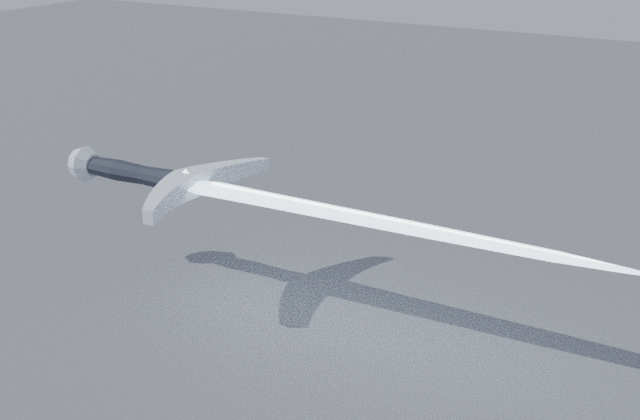
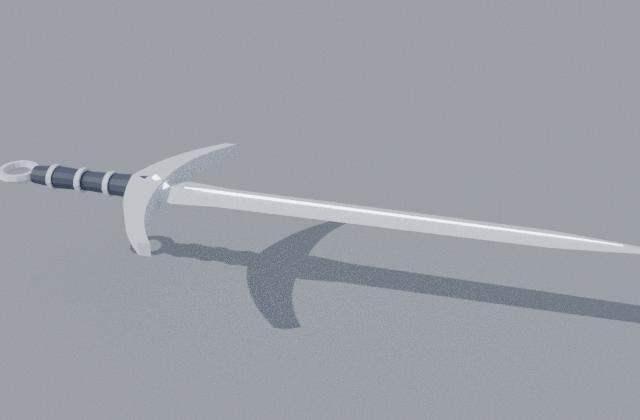
Épée redessinée : pommeau en anneau, garde ailée, gouttière lumineuse

Changed region(s): [[0.0, 0.3405, 1.0, 0.8976]]

diff --git a/tools/blender/models.py b/tools/blender/models.py
@@ -65,53 +65,61 @@ def ring_section(z, rx, ry, sides=10):
 
 def sword():
     reset()
-    steel = (0.09, 0.1, 0.14, 1)
-    silver = (0.75, 0.78, 0.84, 1)
-    pale = (0.77, 0.89, 1.0, 1)
+    steel = (0.07, 0.08, 0.12, 1)
+    silver = (0.8, 0.83, 0.9, 1)
+    pale = (0.72, 0.87, 1.0, 1)
     blade_sections = [
-        diamond(-0.62, 0.30, 0.10),
-        diamond(-0.9, 0.46, 0.12),
-        diamond(-1.6, 0.42, 0.11),
-        diamond(-3.4, 0.36, 0.09),
-        diamond(-4.7, 0.28, 0.07),
-        diamond(-5.3, 0.14, 0.05),
-        diamond(-5.75, 0.01, 0.01),
+        diamond(-0.7, 0.34, 0.11),
+        diamond(-1.0, 0.56, 0.13),
+        diamond(-1.5, 0.44, 0.12),
+        diamond(-3.6, 0.40, 0.10),
+        diamond(-5.0, 0.36, 0.08),
+        diamond(-5.6, 0.22, 0.06),
+        diamond(-6.3, 0.01, 0.01),
     ]
-    loft("Blade", blade_sections, pale, 2.5)
-    edge_sections = [
-        diamond(-0.95, 0.10, 0.15),
-        diamond(-3.4, 0.08, 0.12),
-        diamond(-5.0, 0.04, 0.08),
-        diamond(-5.5, 0.005, 0.02),
-    ]
-    loft("Core", edge_sections, (1, 1, 1, 1), 5)
-    grip_sections = [ring_section(z, r, r * 0.8) for z, r in [(0.75, 0.13), (0.4, 0.15), (0.0, 0.13), (-0.4, 0.15), (-0.55, 0.17)]]
+    loft("Blade", blade_sections, silver)
+    fuller = [diamond(z, w, t) for z, w, t in [(-1.05, 0.02, 0.15), (-1.3, 0.12, 0.16), (-3.6, 0.1, 0.13), (-5.2, 0.05, 0.1), (-5.7, 0.005, 0.07)]]
+    loft("Core", fuller, pale, 6)
+    grip_sections = [ring_section(z, r, r * 0.82, 12) for z, r in [(0.8, 0.12), (0.5, 0.15), (0.1, 0.13), (-0.3, 0.15), (-0.6, 0.18)]]
     loft("Grip", grip_sections, steel)
-    pommel_sections = [ring_section(z, r, r) for z, r in [(1.12, 0.02), (1.02, 0.17), (0.88, 0.22), (0.76, 0.14)]]
-    loft("Pommel", pommel_sections, silver)
-    guard_verts = []
-    guard_faces = []
-    steps = 12
+    for index, z in enumerate((0.55, 0.2, -0.15)):
+        loft("Wrap%d" % index, [ring_section(z + 0.03, 0.165, 0.14, 12), ring_section(z - 0.03, 0.165, 0.14, 12)], silver)
+    guard_verts, guard_faces = [], []
+    steps = 16
     for i in range(steps + 1):
         t = i / steps * 2 - 1
-        x = t * 1.05
-        sweep = -0.34 * (abs(t) ** 1.8)
-        half = 0.13 * (1 - 0.72 * abs(t)) + 0.03
-        thick = 0.11 * (1 - 0.5 * abs(t)) + 0.02
-        z = -0.6 + sweep
+        x = t * 1.25
+        rise = 0.42 * (abs(t) ** 2.4) - 0.1 * (1 - abs(t))
+        half = 0.16 * (1 - 0.8 * abs(t)) + 0.035
+        thick = 0.12 * (1 - 0.55 * abs(t)) + 0.02
+        z = -0.72 - rise
         guard_verts += [(x, thick, z - half), (x, thick, z + half), (x, -thick, z + half), (x, -thick, z - half)]
     for i in range(steps):
         for k in range(4):
-            a = i * 4 + k
-            b = i * 4 + (k + 1) % 4
-            guard_faces.append((a, b, b + 4, a + 4))
+            a2 = i * 4 + k
+            b2 = i * 4 + (k + 1) % 4
+            guard_faces.append((a2, b2, b2 + 4, a2 + 4))
     guard_faces.append((0, 1, 2, 3))
     guard_faces.append((steps * 4 + 3, steps * 4 + 2, steps * 4 + 1, steps * 4))
     mesh_object("Guard", guard_verts, guard_faces, silver)
-    gem = loft("Gem", [diamond(-0.6, 0.02, 0.02, 0.0)] + [[(0.13, 0, -0.6), (0, 0.16, -0.6), (-0.13, 0, -0.6), (0, -0.16, -0.6)]] , pale, 4, cap=False)
-    gem_verts = [(0, 0, -0.42), (0.12, 0, -0.6), (0, 0.17, -0.6), (-0.12, 0, -0.6), (0, -0.17, -0.6), (0, 0, -0.78)]
-    bpy.data.objects.remove(gem)
-    mesh_object("Gem", gem_verts, [(0, 1, 2), (0, 2, 3), (0, 3, 4), (0, 4, 1), (5, 2, 1), (5, 3, 2), (5, 4, 3), (5, 1, 4)], pale, 4)
+    gem_verts = [(0, 0, -0.5), (0.15, 0, -0.72), (0, 0.19, -0.72), (-0.15, 0, -0.72), (0, -0.19, -0.72), (0, 0, -0.94)]
+    mesh_object("Gem", gem_verts, [(0, 1, 2), (0, 2, 3), (0, 3, 4), (0, 4, 1), (5, 2, 1), (5, 3, 2), (5, 4, 3), (5, 1, 4)], pale, 6)
+    torus_verts, torus_faces = [], []
+    major, minor, seg, sides = 0.2, 0.055, 14, 6
+    for i in range(seg):
+        u = i / seg * math.tau
+        for k in range(sides):
+            v = k / sides * math.tau
+            radius = major + minor * math.cos(v)
+            torus_verts.append((math.cos(u) * radius, minor * math.sin(v), 1.02 + math.sin(u) * radius))
+    for i in range(seg):
+        for k in range(sides):
+            a2 = i * sides + k
+            b2 = i * sides + (k + 1) % sides
+            c2 = ((i + 1) % seg) * sides + (k + 1) % sides
+            d2 = ((i + 1) % seg) * sides + k
+            torus_faces.append((a2, b2, c2, d2))
+    mesh_object("Pommel", torus_verts, torus_faces, silver)
 
 
 def crescent(name, radius=5.0, width=1.6, arc=150, segments=28):
@@ -163,7 +171,7 @@ if __name__ == "__main__":
     sword()
     print("sword", stats(), export("SpiritBlade"))
     if "--render" in sys.argv:
-        r6.setup_preview(target=(0, 0, -2.3), distance=9, azimuth=60, elevation=20)
+        r6.setup_preview(target=(0, 0, -2.6), distance=9.5, azimuth=75, elevation=28)
         bpy.context.scene.render.resolution_x = 640
         bpy.context.scene.render.resolution_y = 420
         bpy.context.scene.cycles.samples = 24
